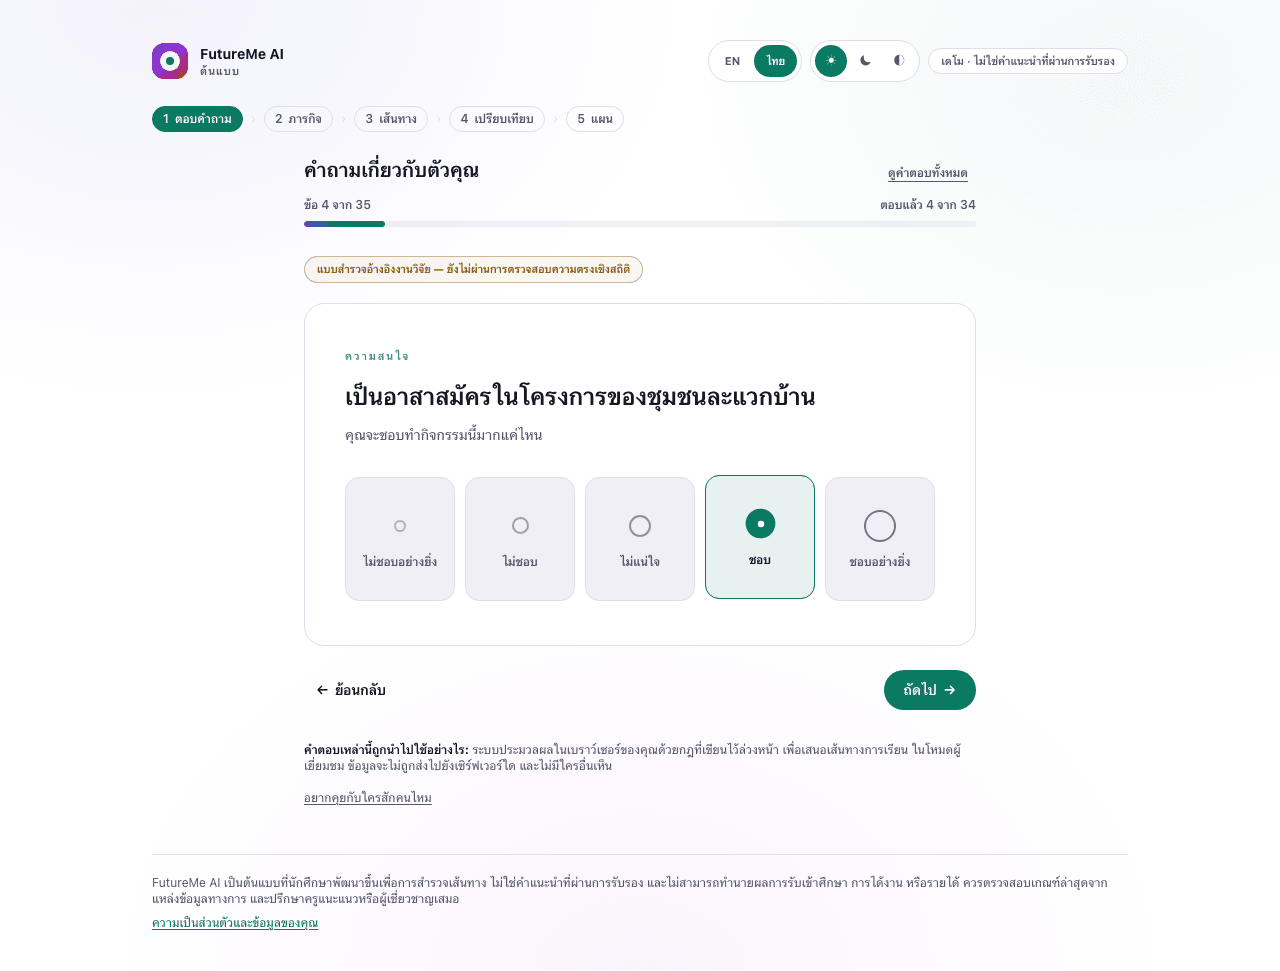
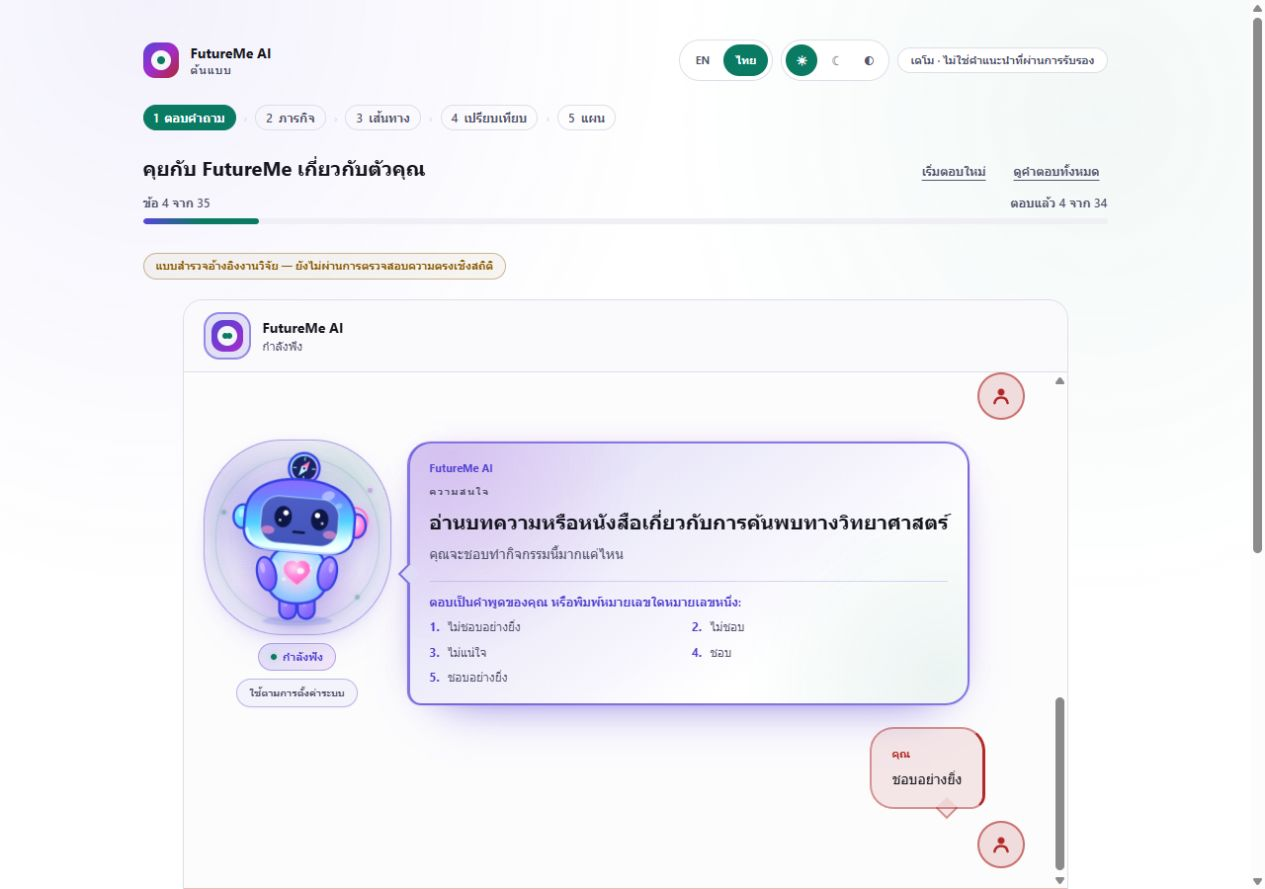
docs: refresh web app screenshots

diff --git a/03_WebApp/READMEEN.md b/03_WebApp/READMEEN.md
@@ -114,7 +114,7 @@ statistical evidence above motivates the problem; it does not prove that FutureM
 | **5 · Act** | Turn one route into a 30-day plan of small, reversible tasks. | New evidence from action |
 
 <p align="center">
-  <a href="assets/screenshots/app/routes-2026-08-09.png"><img src="assets/screenshots/app/routes-2026-08-09.png" alt="Current routes screen with several routes and visible evidence" width="92%"></a>
+  <a href="assets/screenshots/app/routes-desktop.png"><img src="assets/screenshots/app/routes-desktop.png" alt="Current routes screen with several routes and visible evidence" width="92%"></a>
 </p>
 
 <p align="center">
@@ -124,7 +124,7 @@ statistical evidence above motivates the problem; it does not prove that FutureM
 <table>
 <tr>
 <td width="50%" valign="top">
-<a href="assets/screenshots/app/interview-2026-08-09.png"><img src="assets/screenshots/app/interview-2026-08-09.png" alt="Current mascot-led FutureMe assessment screen"></a><br>
+<a href="assets/screenshots/app/interview-desktop.png"><img src="assets/screenshots/app/interview-desktop.png" alt="Current mascot-led FutureMe assessment screen"></a><br>
 <strong>Reflect</strong><br><sub>Thirty interest items, one at a time, on a five-point like-to-dislike scale.</sub>
 </td>
 <td width="50%" valign="top">
@@ -148,7 +148,7 @@ statistical evidence above motivates the problem; it does not prove that FutureM
 <strong>Review</strong><br><sub>Every answer stays changeable before the assessment is submitted.</sub>
 </td>
 <td width="50%" valign="top">
-<a href="assets/screenshots/app/plan-2026-08-09.png"><img src="assets/screenshots/app/plan-2026-08-09.png" alt="Current FutureMe 30-day plan screen"></a><br>
+<a href="assets/screenshots/app/plan-desktop.png"><img src="assets/screenshots/app/plan-desktop.png" alt="Current FutureMe 30-day plan screen"></a><br>
 <strong>Act</strong><br><sub>A 30-day experiment whose progress stays in the browser.</sub>
 </td>
 </tr>
